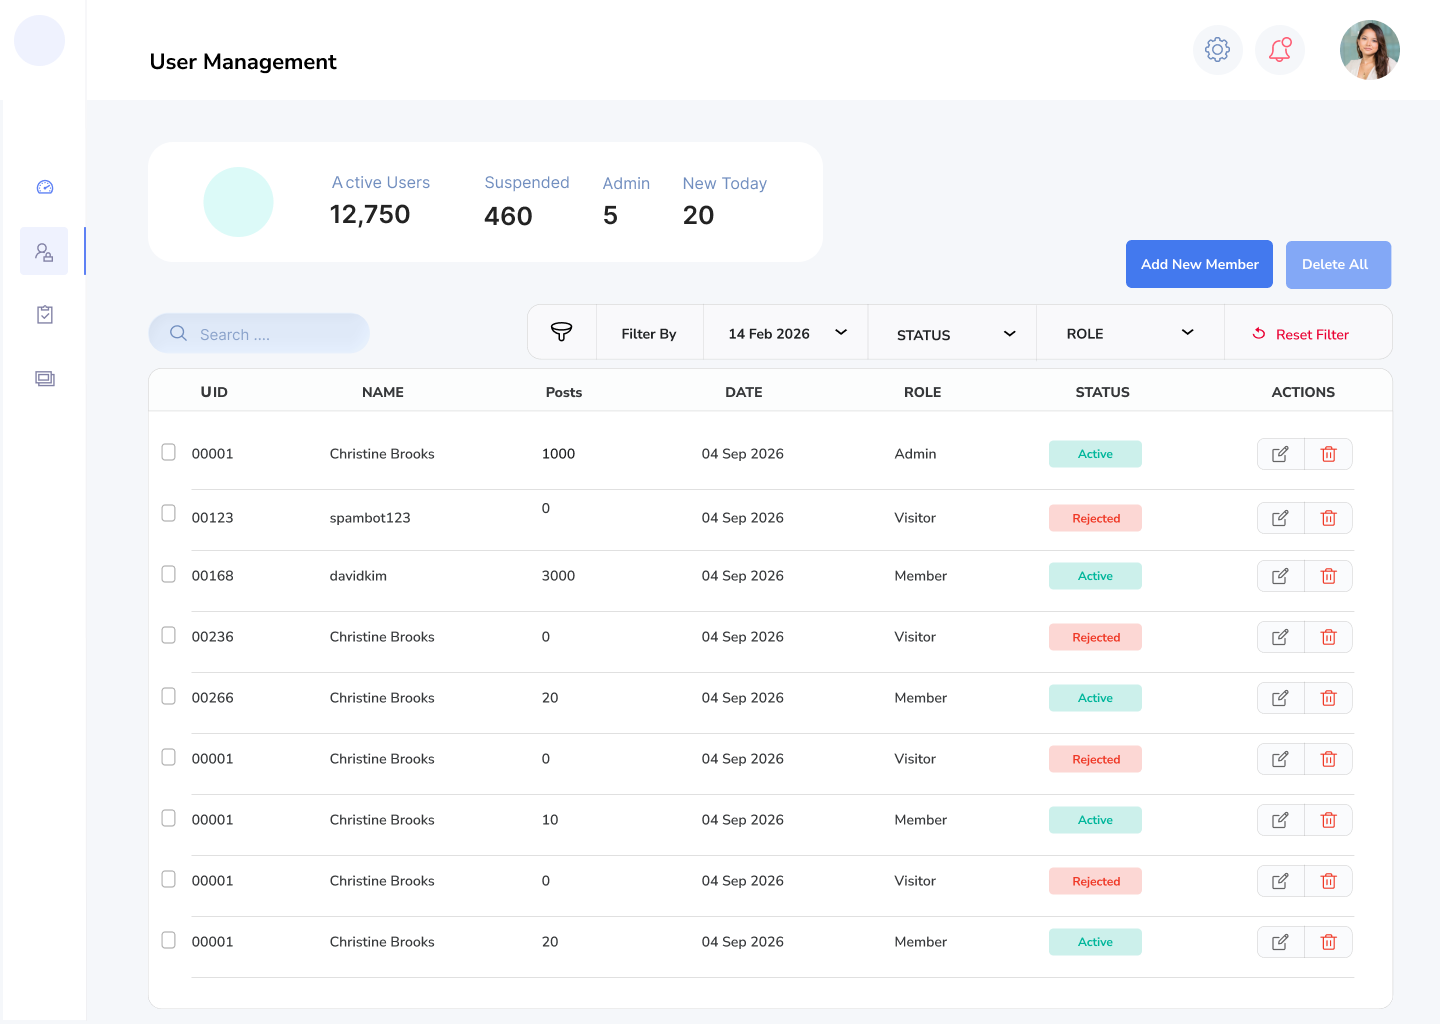
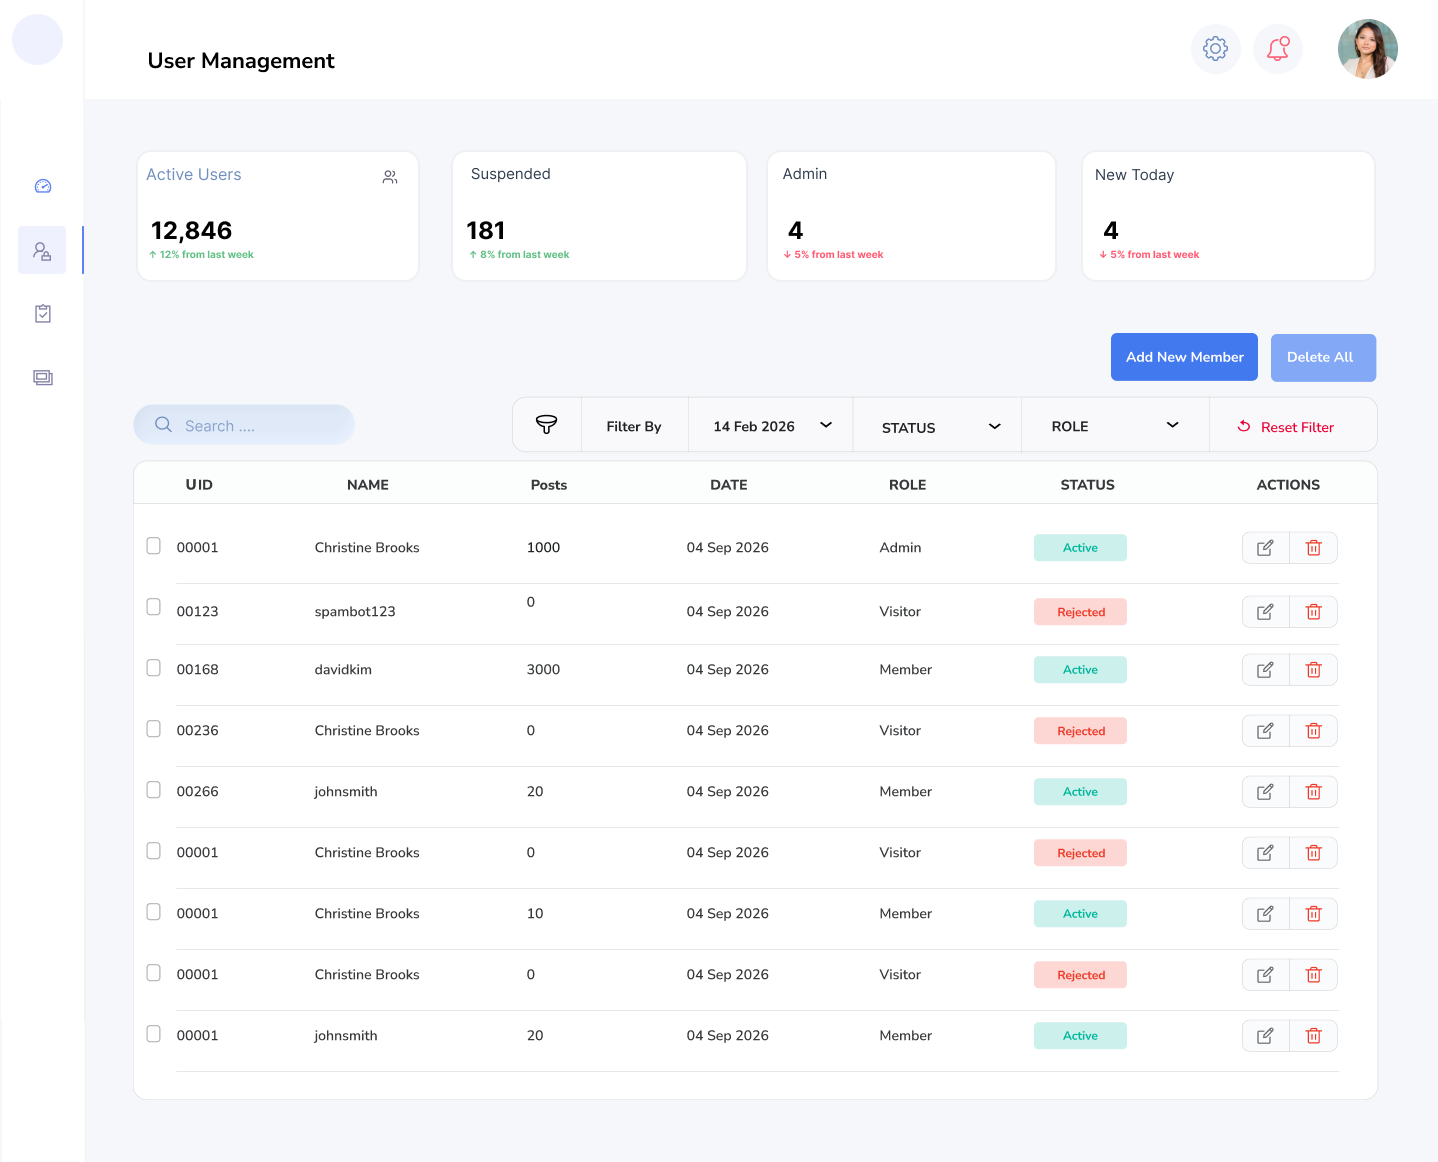
docs: add public README and update User Management screenshot

diff --git a/public/README.md b/public/README.md
@@ -1,0 +1,196 @@
+# UWow Frontend
+
+這是一個使用 Vue 3 + TypeScript + Vite 建立的專案。
+
+## 啟動專案
+
+```bash
+npm install
+npm run dev
+```
+
+---
+
+## API 參考文檔
+
+> 以下為後端 API 的簡易參考規格。
+
+### 資料模型 (Data Models)
+
+#### User
+
+```typescript
+interface User {
+  id: number;
+  username: string;
+  position: string;
+  location: string;
+  age: number;
+  birthdate: string; // 格式: "YYYY-MM-DD"
+  is_pinned: boolean;
+  pin_order: number | null; // null 代表未釘選
+  created_at: string; // ISO 8601
+  updated_at: string; // ISO 8601
+}
+```
+
+#### UserPayload (新增/更新用請求主體)
+
+```typescript
+type UserPayload = {
+  username: string;
+  position: string;
+  location: string;
+  age: number;
+  birthdate: string;
+};
+```
+
+---
+
+### API Endpoints 總覽
+
+| Method   | URL                       | 功能說明           |
+| -------- | ------------------------- | ------------------ |
+| `GET`    | `/api/users`              | 取得分頁與釘選列表 |
+| `POST`   | `/api/users`              | 新增使用者         |
+| `PATCH`  | `/api/users/:id`          | 更新單筆使用者     |
+| `DELETE` | `/api/users/:id`          | 刪除單筆使用者     |
+| `POST`   | `/api/users/:id/pin`      | 釘選 (Pin)         |
+| `DELETE` | `/api/users/:id/pin`      | 取消釘選 (Unpin)   |
+| `POST`   | `/api/users/reorder-pins` | 重排釘選順序       |
+
+---
+
+### API 詳細說明
+
+#### 1. 取得使用者 `GET /api/users`
+
+- **Query Params**: `search`, `sort_by` (欄位名稱), `sort_dir` (asc/desc), `page` (預設 1), `per_page` (預設 50)
+- **Response**:
+
+```json
+{
+  "pinned": [{ "id": 3, "is_pinned": true, "pin_order": 1 }],
+  "data": [{ "id": 1, "is_pinned": false }],
+  "page": 1,
+  "total_pages": 10,
+  "total": 498
+}
+```
+
+#### 2. 新增使用者 `POST /api/users`
+
+- **Body**: `UserPayload`
+- **Response (201)**: 回傳包含 ID 與時間的完整 `User` 物件。
+
+#### 3. 更新使用者 `PATCH /api/users/:id`
+
+- **Body**: `Partial<UserPayload>` (只需傳入要修改的欄位)
+- **Response (200)**: 回傳更新後的完整 `User` 物件。
+
+#### 4. 刪除使用者 `DELETE /api/users/:id`
+
+- **Response (204)**: 成功且無回傳內容。
+
+#### 5. 釘選使用者 `POST /api/users/:id/pin`
+
+- **Response (200)**: 回傳該名 user 以及更新的 pinned 陣列。
+
+```json
+{
+  "user": { "id": 5, "is_pinned": true, "pin_order": 4 },
+  "pinned": [{ "id": 3 }, { "id": 5 }]
+}
+```
+
+#### 6. 取消釘選使用者 `DELETE /api/users/:id/pin`
+
+- **Response (200)**: 回傳該名 user 以及更新順序後的 pinned 陣列。
+
+#### 7. 重排釘選順序 `POST /api/users/reorder-pins`
+
+- **Body**:
+
+```json
+{
+  "ids": [7, 3, 5, 2]
+}
+```
+
+- **Response (200)**:
+
+```json
+{
+  "pinned": [
+    { "id": 7, "pin_order": 1 },
+    { "id": 3, "pin_order": 2 }
+  ]
+}
+```
+
+---
+
+### 統一錯誤回應格式 (422 範例)
+
+```json
+{
+  "message": "Validation failed",
+  "errors": {
+    "username": ["欄位不可為空", "最多 50 個字元"]
+  }
+}
+```
+
+---
+
+## 問題回答
+
+### Q1b: 關於 Vue3 的經驗分享、優點與缺點
+
+以我過去使用 Vue3 的經驗來說，我其實滿喜歡它的 Composition API 跟 Proxy 的響應式系統。像我之前開發會員系統時，包含防止折價券被詐領，還有跨裝置驗證碼這類比較複雜的流程，Composition API 讓我可以把商業邏輯拆得很乾淨，也比較好維護。而且不像 React，有時候要一直注意 useEffect 的依賴問題，Vue 在這方面開發體驗比較直覺。
+
+另外 Vue 的官方生態系也很完整，像 Pinia 這類狀態管理工具都有很標準的做法，對團隊來說比較容易建立一致的開發模式，也有助於快速交付產品。不過在更深入開發之後，我也慢慢發現它的一些限制。當產品開始比較重視 SEO、SSR 效能，或是需要整合一些新的 AI API 時，我發現 React 生態系，尤其是 Next.js，整體的解決方案和社群資源都更成熟，也更完整。
+
+所以在我後來開發個人專案時，我主動選擇轉到 React 和 Next.js。實際轉過去之後，效果也很明顯。透過 Next.js 的架構優化，我成功把 Core Web Vitals 裡的 CLS 降到 0.003，同時搭配 SEO 策略，讓網站流量在三個月內成長超過 70 倍。總結來說，我認為 Vue3 非常適合需要快速開發、穩定交付的產品；但如果產品目標是高度 SEO 成長，或需要整合比較前沿的技術，React 和 Next.js 生態系會更有優勢。而我自己的 AI 背景，讓我習慣用數據去分析問題、驗證結果。所以我不會特別侷限在某個框架，而是會根據產品的目標，選擇最適合的技術。
+
+### Q2
+
+**情境一：用戶增長至 5 萬人，僅 1-2 天優化空間**
+
+- **快取：** 將最熱門的搜尋結果或分頁前幾頁存入 Redis，存活時間拉長。
+- **限流：** 限制單一用戶每秒請求數，檢查前端是否有不必要的重複 Request，或者針對搜尋框加上更嚴格的 Debounce。
+- **選擇原因：** 我會選擇CDN 快取策略 + API 防抖，只需修改配置或幾行程式碼即可上線，風險低、回報高。
+
+**情境二：無限滾動導致 RAM 佔用過高**
+
+- **解決方案：** 虛擬列表 (Virtual List / Virtual Scrolling)。
+- **作法：** 只渲染用戶當前看得到的那 10-20 筆 DOM 節點。當用戶向下捲動時，動態替換內容並移動節點位置，而不是一直往下方增加節點。
+- **工具：** 可以使用 `vue-virtual-scroller` 或自行實作 Intersection Observer 邏輯。
+- **效果：** 無論有一萬筆還是一百萬筆數據，瀏覽器渲染的 DOM 數量始終固定，RAM 佔用會保持在極低水平。
+
+## Q3
+
+### Dashboard
+
+老闆不需要處理單篇文章或單個用戶的瑣事，他需要的是大方向。透過成長曲線與比例圓餅圖，他能快速判斷網站是否在成長。設計熱門排行榜是為了讓他掌握網站的內容價值，作為未來商業擴張或廣告投放的依據。
+
+![Dashboard](./public/Dashboard.png)
+
+### User Management
+
+將名單結合統計卡片與操作按鈕。讓管理員能一眼看出異常（如停權數激增），並直接在表格內執行「停權」或「更動」，提高處理違規或客訴的效率。
+
+![User Management](./public/User%20Management.png)
+
+### User Favorites Management
+
+這張圖彌補了單純文章審核的不足，用戶建立的資料夾名稱是網站中潛在的隱形違規區。設計資料夾表單是為了確保網站秩序。
+![User Favorites Management](./public/User%20Favorites%20Management.png)
+
+### Q5: QPS 從 300 暴增至 3,000 的「止血」方案
+
+1. **靜態資源分流與防抖：** 把 Vue3 的 JS、CSS、圖片這些靜態檔案全部交給 CloudFront 或 Akamai 處理，讓使用者直接從最近的節點載入，而不是每次都打到主伺服器。同時調整 `Cache-Control`，讓瀏覽器可以優先用本地快取，減少不必要的請求。檢查所有搜尋框、分頁按鈕和送出按鈕，加上 `debounce` 或 `throttle`，避免使用者短時間內連續點擊，產生一堆重複且沒必要的 API 請求。
+2. **優先讀取本地快取：** 透過 PWA 的 Service Worker，把像產品列表這類不會頻繁變動的 API 回應暫時存在本地。這樣使用者短時間內再次開啟時，可以直接用本地資料，速度更快，也減少後端壓力。
+3. **流量削峰：** 如果是活動或瞬間流量暴增的情況，可以在前端加一個簡單的排隊頁，或隨機延遲幾百毫秒再發送請求，避免所有請求同時打進來，把系統壓垮。
+4. **功能降級：** 如果系統還是撐不住，可以先暫時關閉一些非必要功能，例如搜尋或即時統計圖表，優先確保最重要的功能（像是讀取文章、註冊和登入）可以正常使用。
